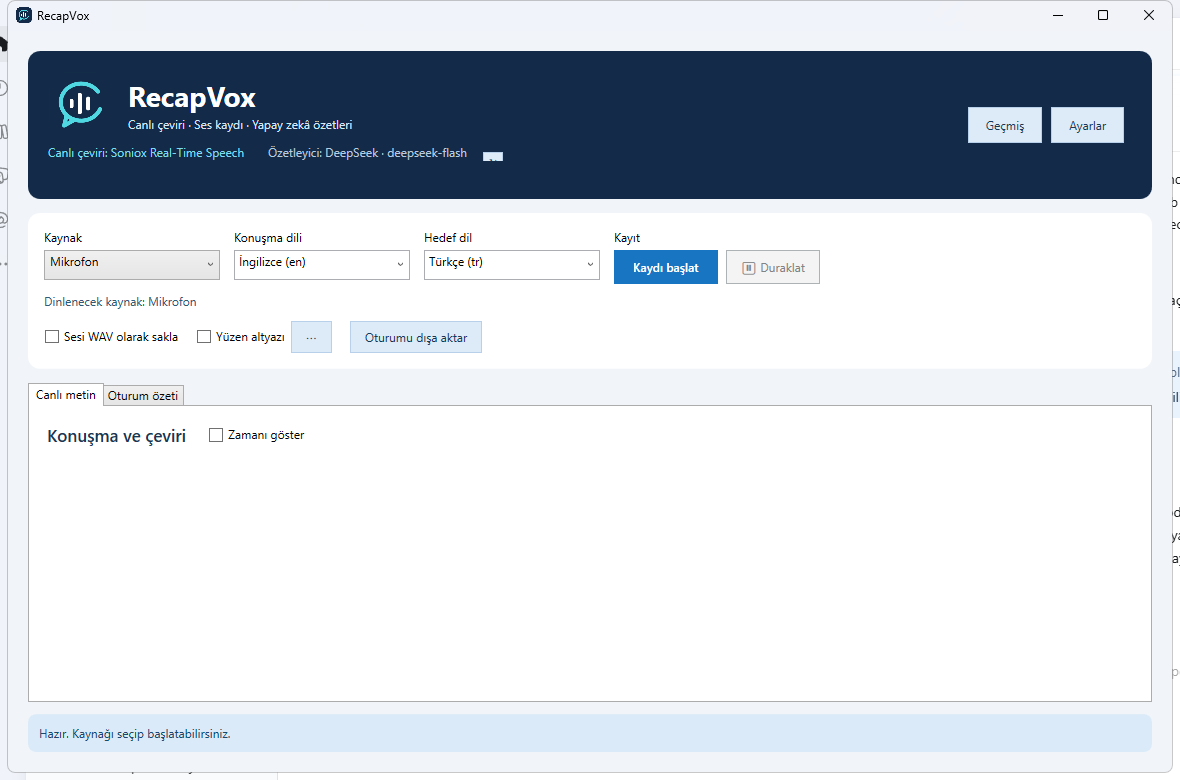
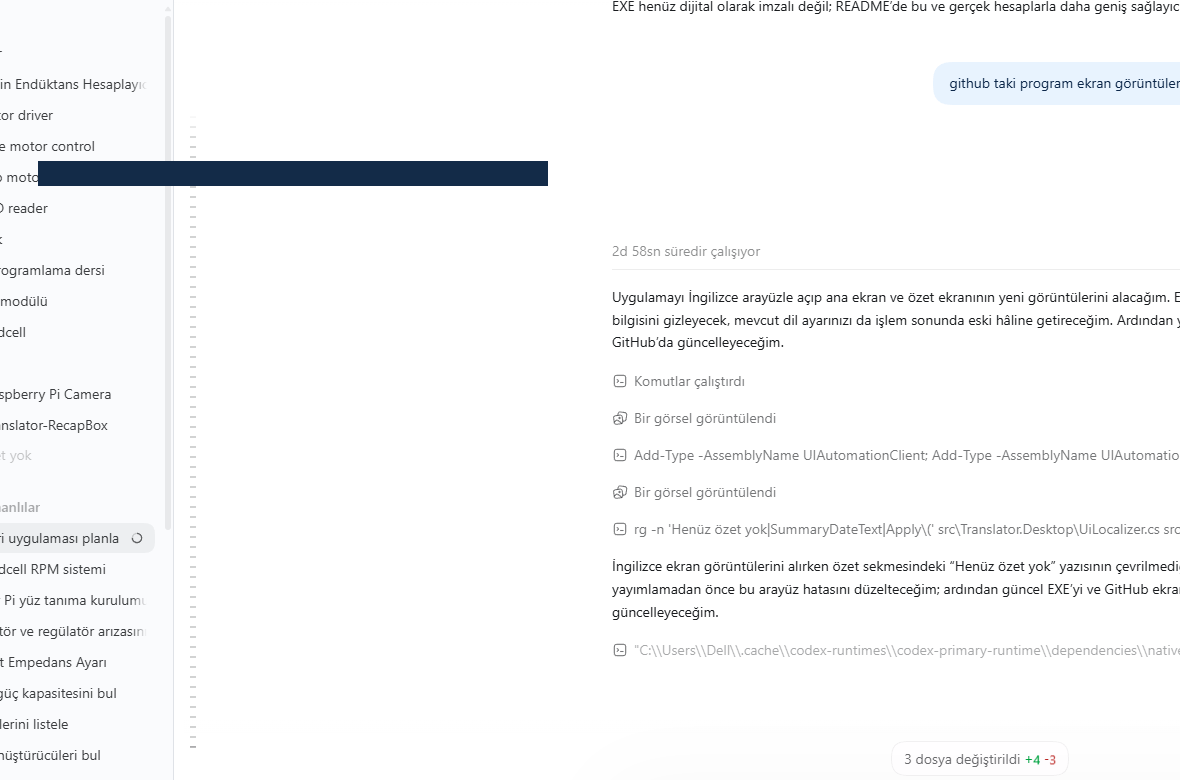
Update English screenshots and fix summary empty state

diff --git a/src/Translator.Desktop/MainWindow.xaml.cs b/src/Translator.Desktop/MainWindow.xaml.cs
@@ -51,6 +51,7 @@ public partial class MainWindow : Window
         RefreshHistory();
         UiLocalizer.Apply(this);
         StatusText.Text = UiLocalizer.T("Hazır. Kaynağı seçip başlatabilirsiniz.");
+        SummaryDateText.Text = UiLocalizer.T("Henüz özet yok");
         _billingTimer.Tick += async (_, _) => await RefreshBalancesAsync();
         _billingTimer.Start();
         _ = RefreshBalancesAsync();

diff --git a/README.md b/README.md
@@ -12,7 +12,7 @@ RecapVox listens to your microphone, a selected Windows application's audio, or 
 
 ## Download and start
 
-Download **RecapVox-win-x64-1.0.1.exe** from the [v1.0.1 release](https://github.com/ercanturhan/recapvox-live-translation-notes/releases/tag/v1.0.1) and double-click it. No separate .NET installation is needed. On first launch, the launcher extracts its private runtime to `%LOCALAPPDATA%\RecapVox\R`; later launches reuse that cache. An internet connection and your own provider API key are required for live translation and AI summaries. The EXE is currently unsigned, so Windows may show a publisher warning.
+Download **RecapVox-win-x64-1.0.2.exe** from the [v1.0.2 release](https://github.com/ercanturhan/recapvox-live-translation-notes/releases/tag/v1.0.2) and double-click it. No separate .NET installation is needed. On first launch, the launcher extracts its private runtime to `%LOCALAPPDATA%\RecapVox\R`; later launches reuse that cache. An internet connection and your own provider API key are required for live translation and AI summaries. The EXE is currently unsigned, so Windows may show a publisher warning.
 
 The download contains no API keys, recordings, or personal settings. Keys are stored in Windows Credential Manager for your Windows account. Moving the EXE to another folder on the **same** account does not remove existing keys; sharing the EXE does not share your keys.
 
@@ -68,7 +68,7 @@ Install the stable [.NET 10 SDK](https://dotnet.microsoft.com/en-us/download/dot
 ```powershell
 ./run.ps1
 # Build a single-file distribution:
-./scripts/package-single-exe.ps1 -Version 1.0.1
+./scripts/package-single-exe.ps1 -Version 1.0.2
 # Run automated checks:
 ./.dotnet-sdk/dotnet.exe run --project tests/Translator.AudioChecks/Translator.AudioChecks.csproj
 ```
